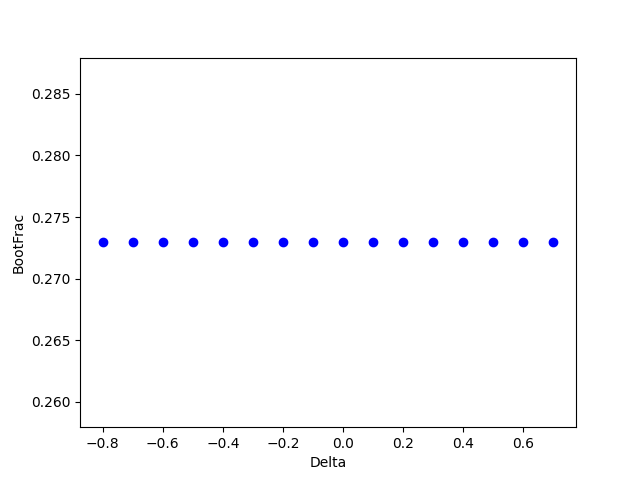
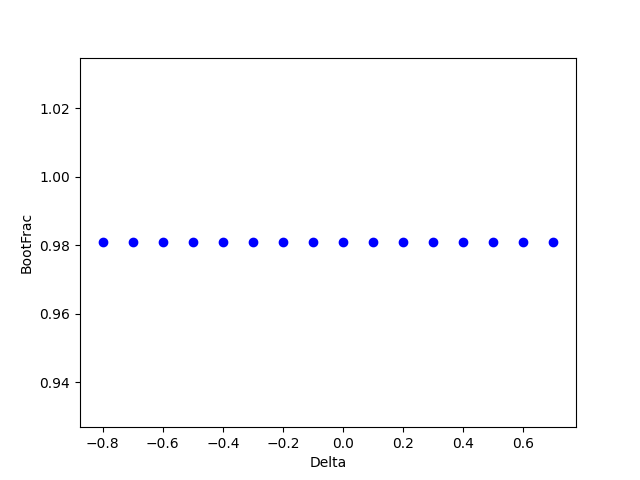
additional parameter sweeps

diff --git a/driehoek.py b/driehoek.py
@@ -2,7 +2,7 @@ from dataclasses import dataclass
 import numpy as np
 import math
 
-from geometry import shape_geometry, ip_shape_factor
+from geometry import shape_geometry, ip_shape_factor, sauter_ip_shape_factor
 
 @dataclass
 class InputParameters:
@@ -94,15 +94,16 @@ def simplesystemcode(inputs:InputParameters, print_out=True):
 	GeoFac = (1.17 - 0.65*InvAspect)/((1.0-InvAspect**2)**2)
 
 	PlasCur0 = GeoFac * (5.0 * RMinor**2 * MagField)/(RMajor * inputs.SafetyFac) * (1.0 + inputs.Kappa**2)/2.0 # Assumes no triangularity for simplicity
-	PlasCur = PlasCur0 * ip_shape_factor(inputs.Delta)
+	PlasCurOld = PlasCur0 * ip_shape_factor(inputs.Delta)
+	PlasCur = PlasCur0 * sauter_ip_shape_factor(inputs.Kappa, inputs.Delta)
 	# PlasCur = PlasCur0
-	print(f"\tIp_old / Ip : \t{PlasCur0} / {PlasCur}")
+	# print(f"\tIp_old / Ip  / Sauter: \t{PlasCur0} / {PlasCurOld} / {PlasCur}")
 
 	BPol_old = Mu0 * PlasCur * 1.0e6 / (2.0 * np.pi * RMinor * np.sqrt(inputs.Kappa))
 	# adjusting the Bpol to take triangularity into account
 	BPol = Mu0 * PlasCur * 1.0e6 / PlasPerim
 
-	print(f"\tBpol_old / Bpol : \t{BPol_old} / {BPol}")
+	# print(f"\tBpol_old / Bpol : \t{BPol_old} / {BPol}")
 
 	BetaPol = 2.0 * 100000.0 * Pressure * Mu0/(BPol**2)  # Plasma poloidal beta (normalised plasma pressure)
 

diff --git a/geometry.py b/geometry.py
@@ -48,3 +48,16 @@ def ip_shape_factor(delta, c1=0.15, c2=0.10):
         needed for taking triangularity into account => simple fit; kinda need sum papers for this tbh
     """
     return 1.0 + c1*delta + c2*delta**2
+
+def sauter_ip_shape_factor(kappa: float, delta: float, squareness: float = 1.0) -> float:
+	"""
+	Engineering fit for shaping effect on plasma current / q95 based on Sauter et al.
+	The w07 squareness factor is held at 1.0 because this simple model does not resolve squareness.
+     
+     taken from : https://pdf.sciencedirectassets.com/271368/1-s2.0-S0920379616X00099/1-s2.0-S0920379616303234/main.pdf
+     """
+	kappa_term = 1.0 + 1.2 * (kappa - 1.0) + 0.56 * (kappa - 1.0)**2
+	delta_term = (1.0 + 0.09 * delta + 0.16 * delta**2) / (1.0 + 0.45 * delta)
+	shape_term = 1.0 - 0.74 * delta * squareness
+	square_term = 1.0 + 0.55 * (squareness - 1.0)
+	return kappa_term * delta_term / shape_term * square_term

diff --git a/utilities.py b/utilities.py
@@ -34,6 +34,8 @@ def plot_scan(scan_out, x_par, y_par, outname="plot.png",color="blue"):
 	plt.scatter(X,Y, color=color)
 	plt.xlabel(x_par)
 	plt.ylabel(y_par)
-	# print("SHIT HEAT")
+
+
+	
 	plt.savefig(outname)
 
